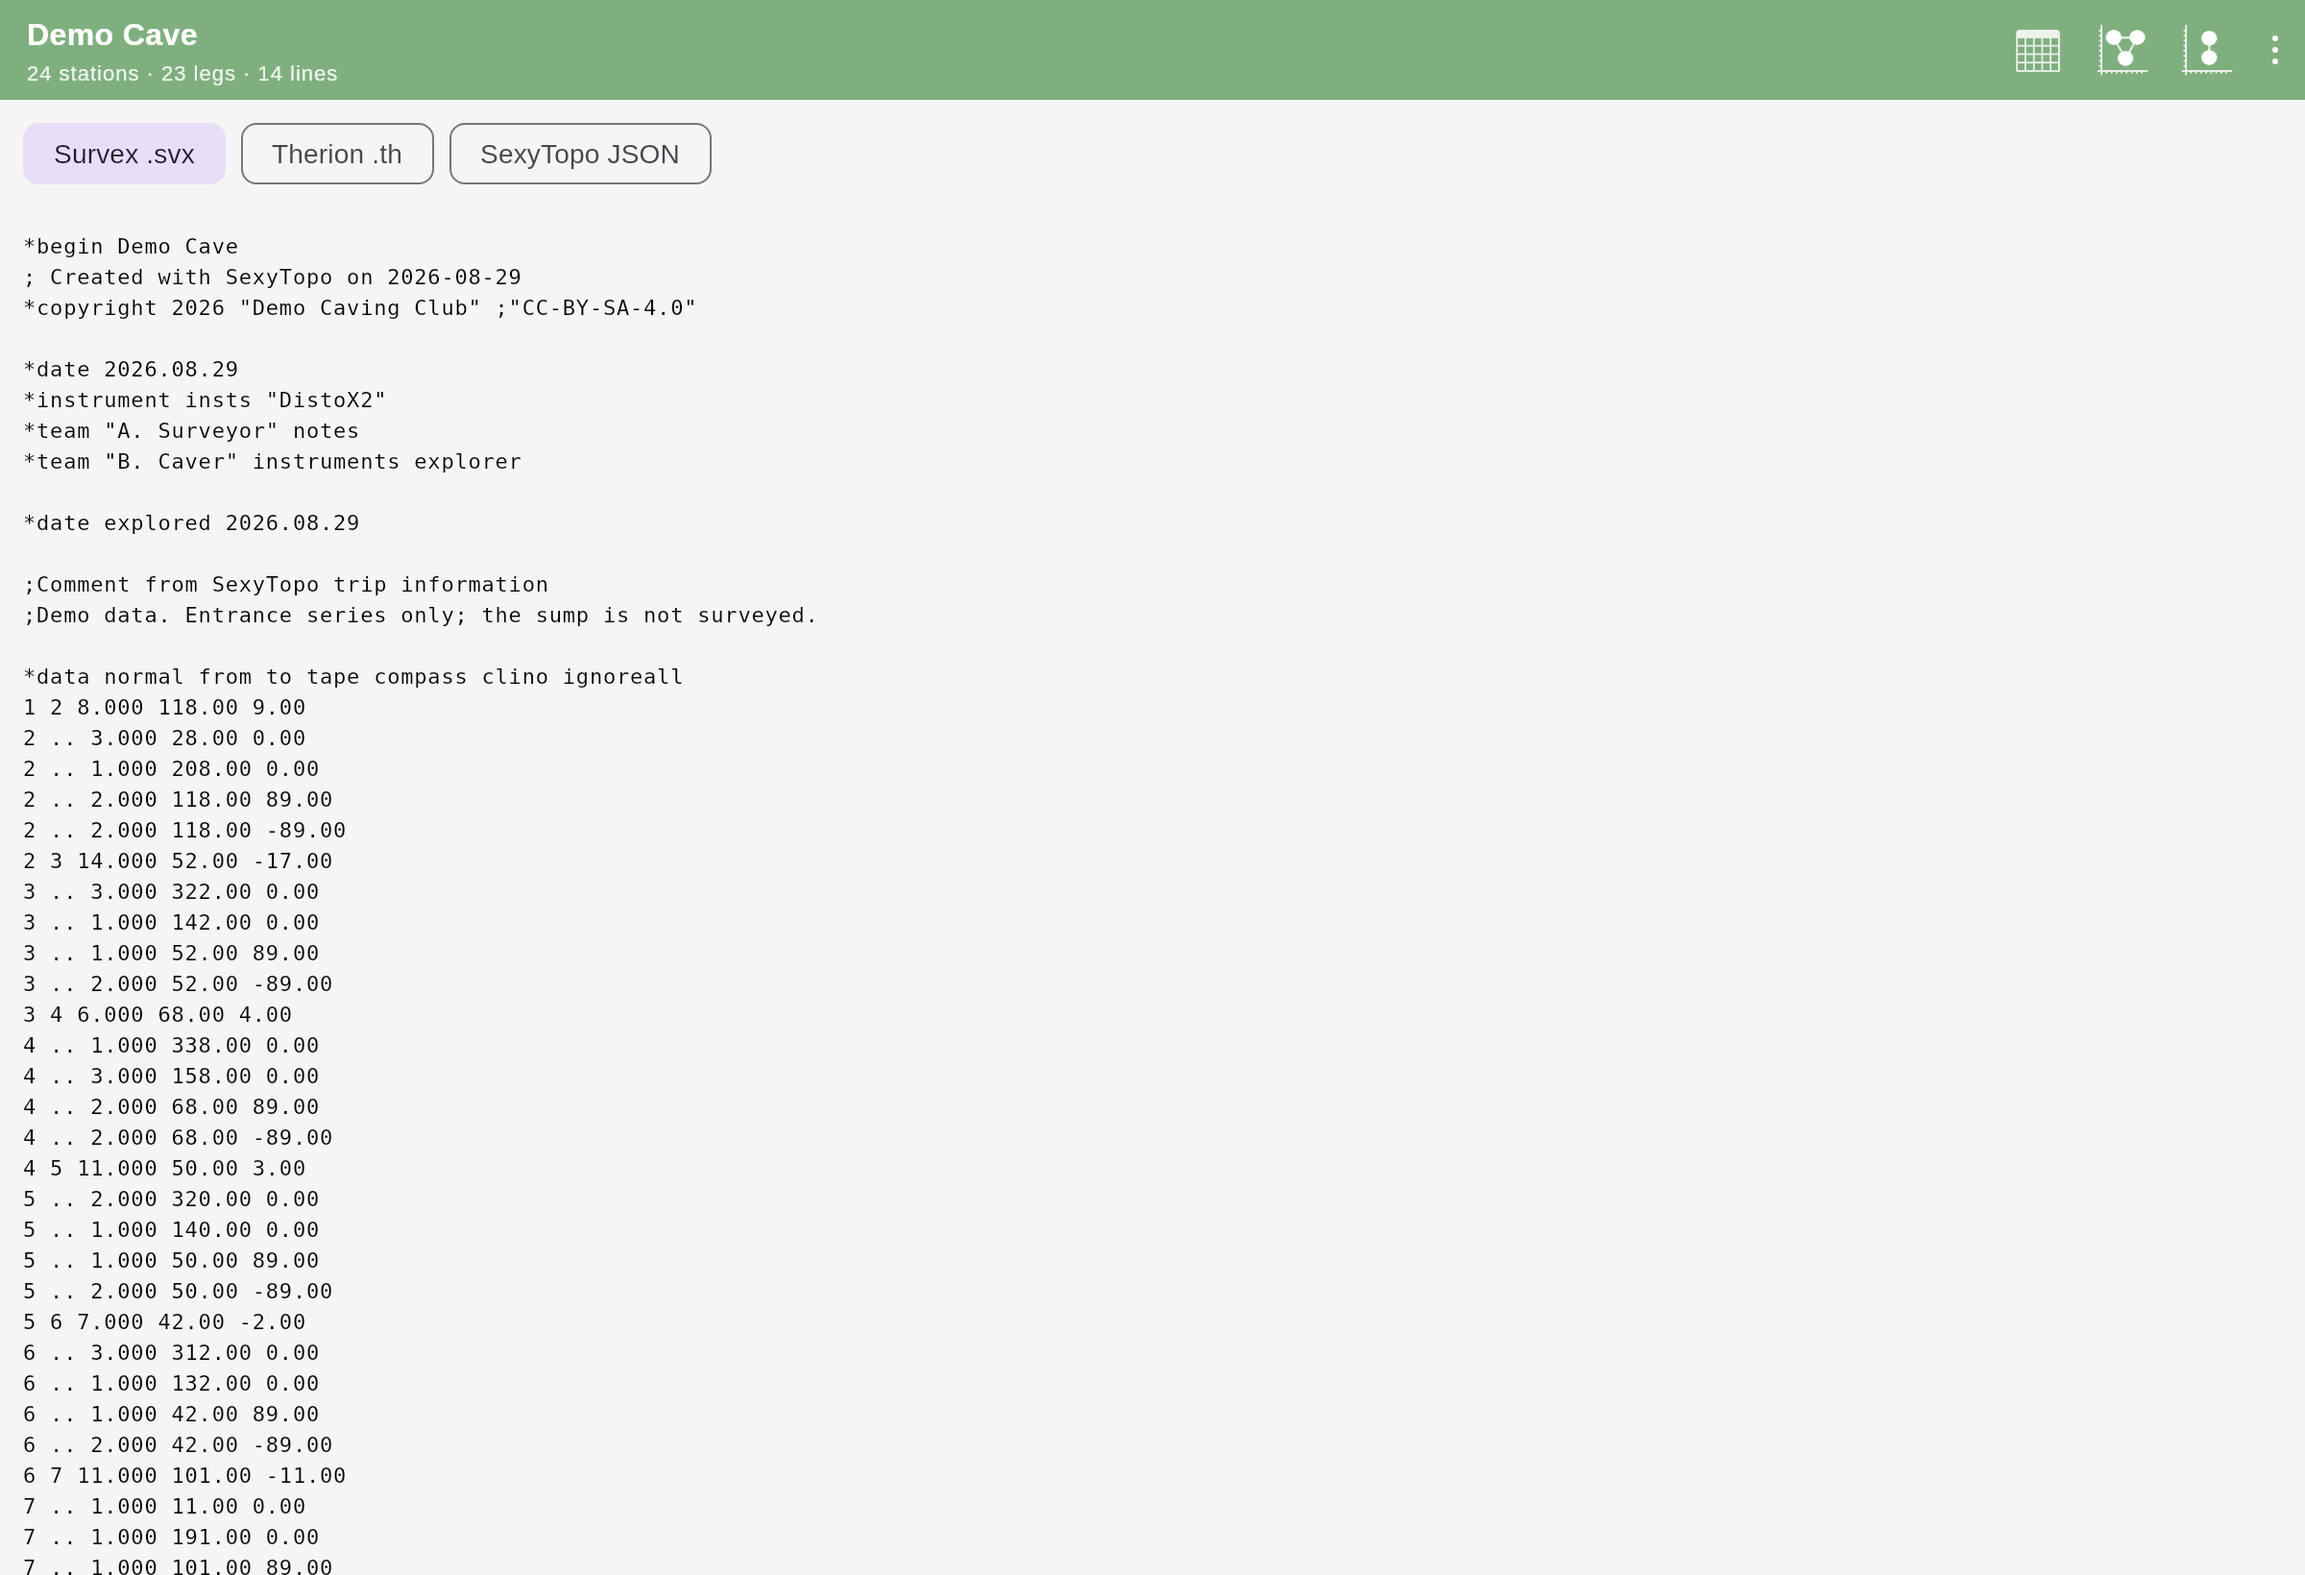
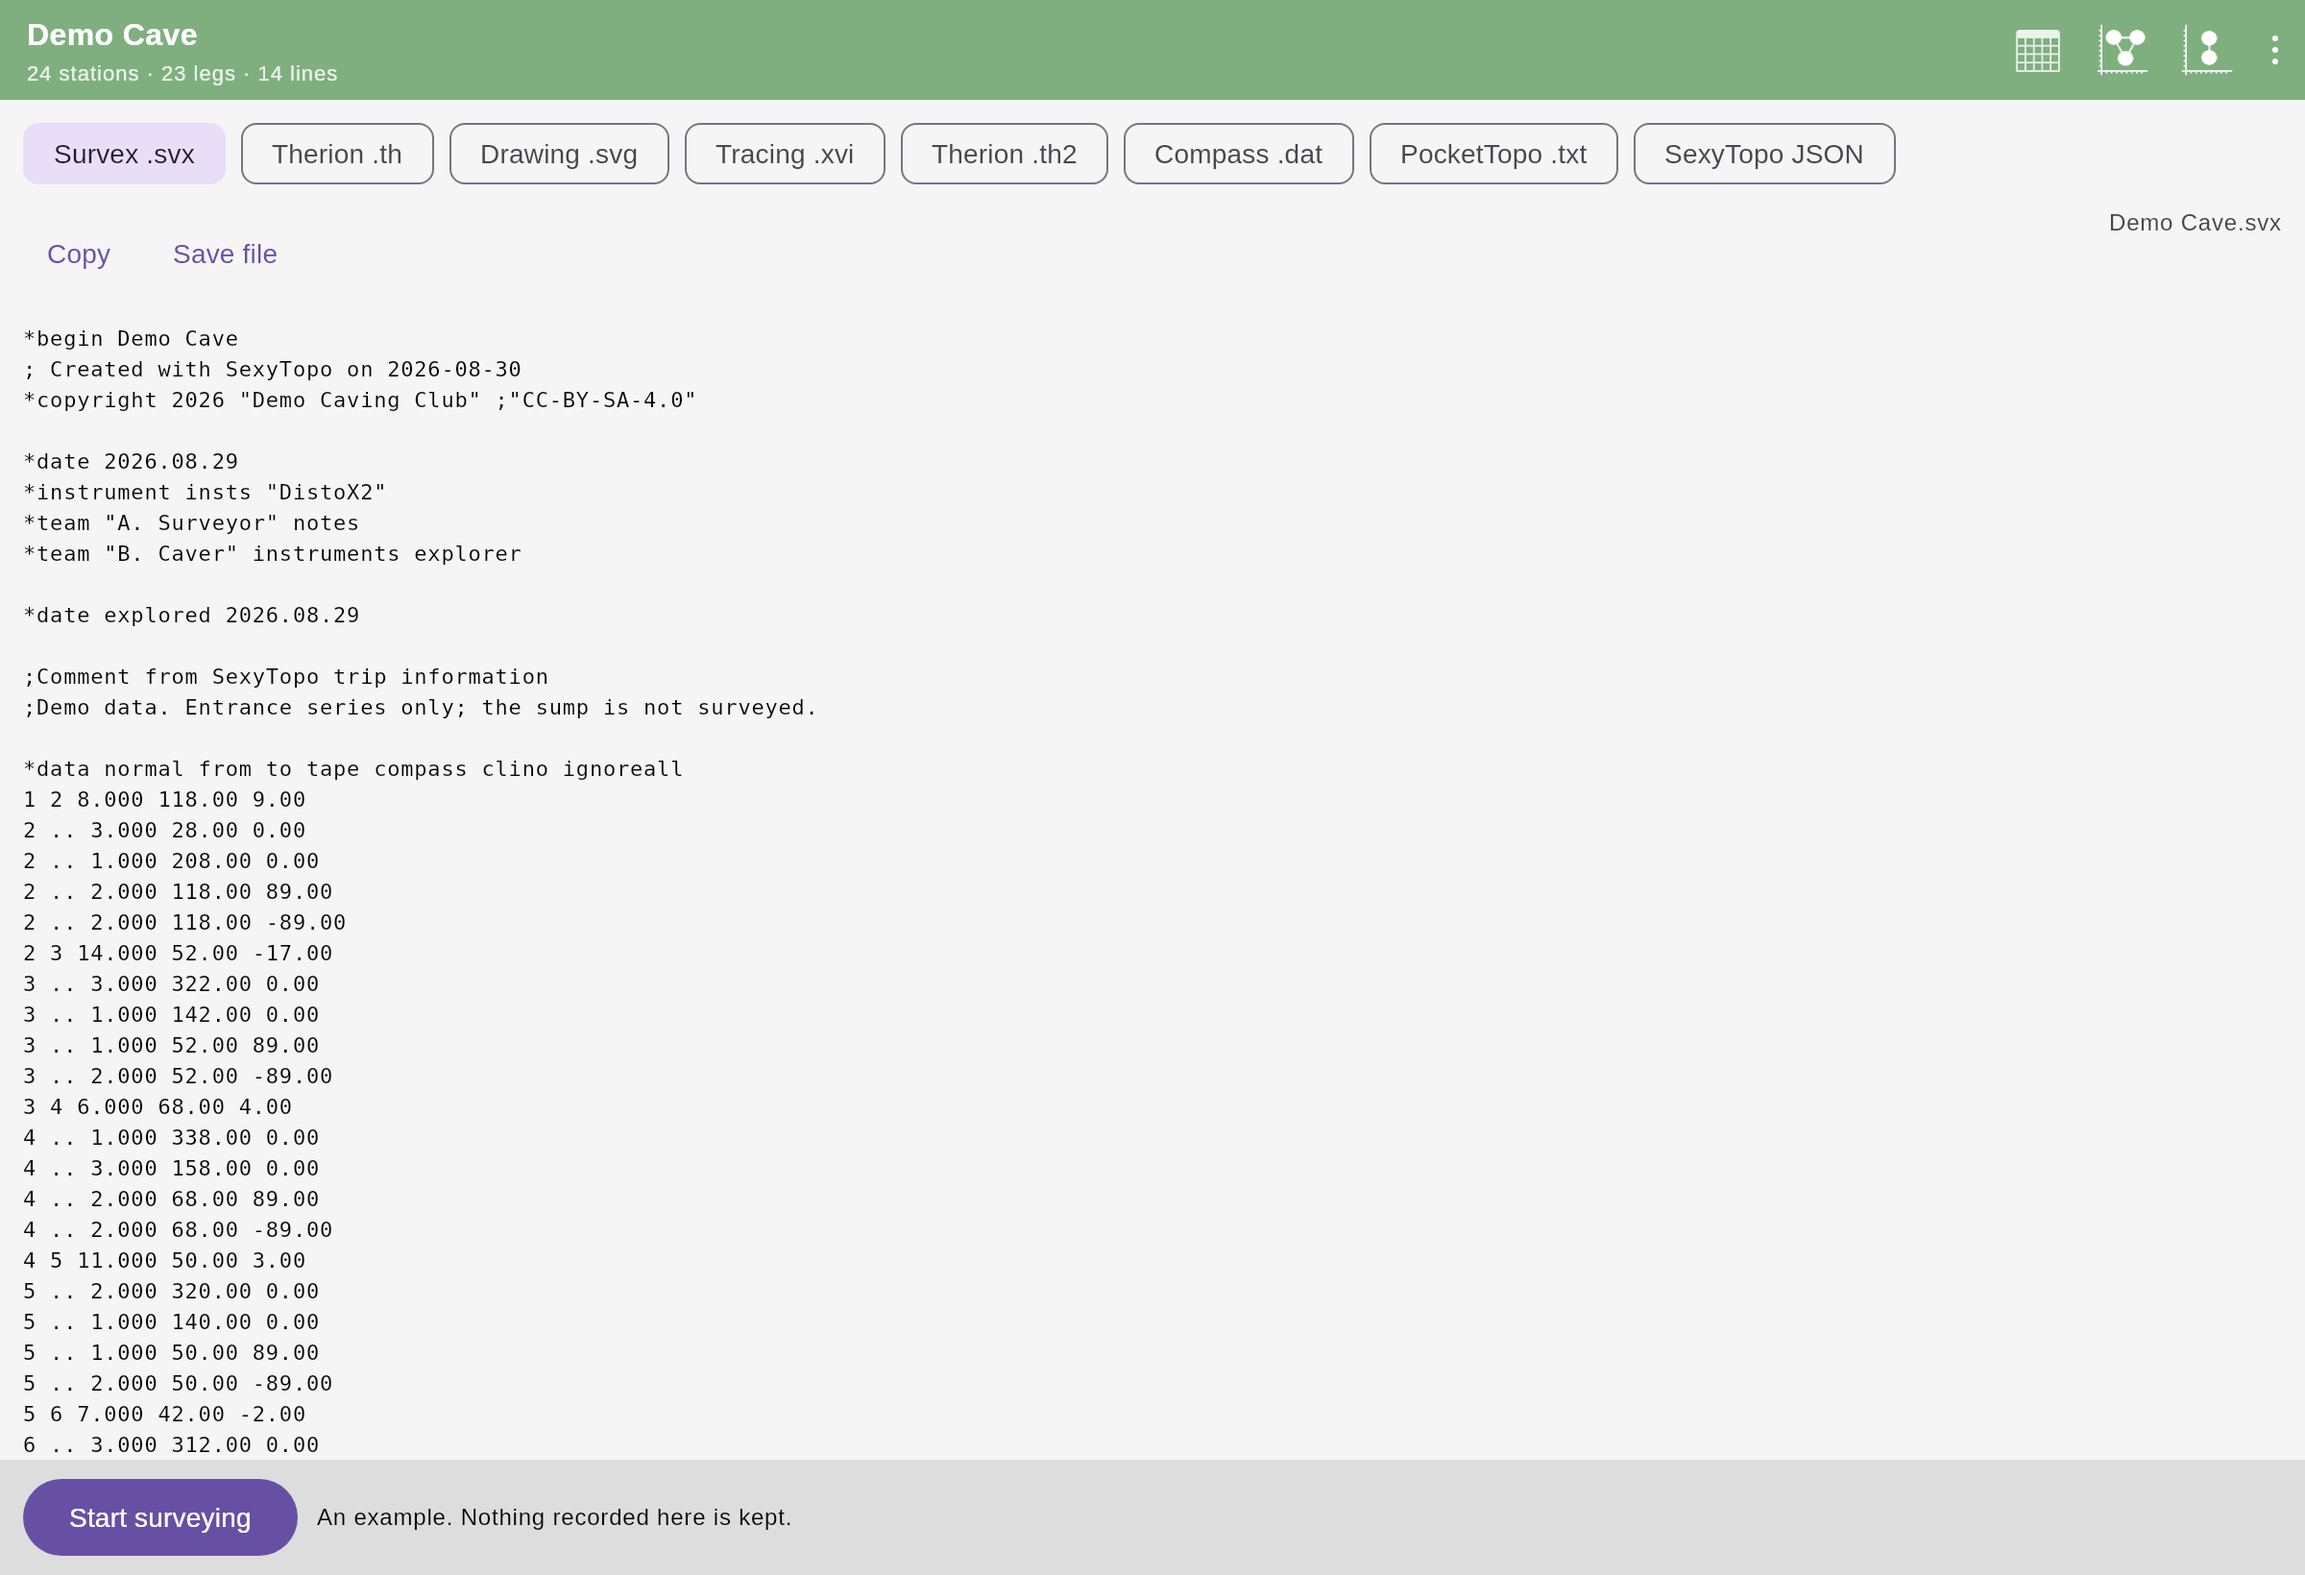
Make every export format reachable on a phone
Eight formats do not fit across a 420-pixel screen, and they sat in a row
that scrolled sideways. That row does not scroll. A drag beginning on a
chip is taken by the chip: it moves the row about thirty pixels and then
stops, however far the finger goes, while a drag beginning in the gap
between two chips scrolls it normally. A finger lands on a chip far more
often than in a gap, so in practice the last four formats — the .th2, the
Compass .dat, the PocketTopo .txt and this app's own JSON — could not be
reached at all.

Wrapping the chips fixes it and needs no gesture. Three rows of chips
cost some height on a screen whose main content scrolls anyway.

Found by trying to write a browser check for it, which is the useful part
of writing browser checks. There is now one: it picks the .th2 on a phone
screen, saves the file, and checks it has an encoding line, a named plan
scrap, and the ##XTHERION## block that points it at the .xvi — the format
with the most structure to get wrong, and until now the one furthest off
the edge of the screen.

Claude-Session: https://claude.ai/code/session_01EsWeeGYHa4RrEbZW2iXKma

diff --git a/kmp/demo/src/commonMain/kotlin/org/hwyl/sexytopo/demo/ExportView.kt b/kmp/demo/src/commonMain/kotlin/org/hwyl/sexytopo/demo/ExportView.kt
@@ -3,6 +3,8 @@ package org.hwyl.sexytopo.demo
 import androidx.compose.foundation.horizontalScroll
 import androidx.compose.foundation.layout.Arrangement
 import androidx.compose.foundation.layout.Column
+import androidx.compose.foundation.layout.ExperimentalLayoutApi
+import androidx.compose.foundation.layout.FlowRow
 import androidx.compose.foundation.layout.Row
 import androidx.compose.foundation.layout.Spacer
 import androidx.compose.foundation.layout.fillMaxSize
@@ -59,6 +61,7 @@ enum class ExportFormat(val label: String, val extension: String) {
  * emitter, whose golden tests assert it byte for byte against what the Android app writes, and the
  * JSON is the app's own native format — the same bytes the Android app would read back.
  */
+@OptIn(ExperimentalLayoutApi::class)
 @Composable
 fun ExportView(
     survey: Survey,
@@ -125,12 +128,17 @@ fun ExportView(
         }
 
     Column(modifier.fillMaxSize()) {
-        Row(
-            Modifier
-                .fillMaxWidth()
-                .horizontalScroll(rememberScrollState())
-                .padding(horizontal = 12.dp, vertical = 4.dp),
+        // Wrapped rather than scrolled sideways, which is what this was.
+        //
+        // Eight formats do not fit across a phone, and a row that scrolls hides four of them behind
+        // a gesture that does not work: a drag beginning on a chip is taken by the chip, moves the
+        // row about thirty pixels and stops. A finger lands on a chip far more often than in the
+        // gap between two, so half the export formats were, in practice, unreachable. Three rows of
+        // chips cost some height on a screen whose main content scrolls anyway.
+        FlowRow(
+            Modifier.fillMaxWidth().padding(horizontal = 12.dp, vertical = 4.dp),
             horizontalArrangement = Arrangement.spacedBy(8.dp),
+            verticalArrangement = Arrangement.spacedBy(2.dp),
         ) {
             for (f in ExportFormat.entries) {
                 FilterChip(format == f, { format = f }, { Text(f.label) })

diff --git a/kmp/README.md b/kmp/README.md
@@ -39,6 +39,7 @@ Being precise about this matters more than the demo looking good.
 | **PocketTopo's own binary `.top` imports** | **Verified** | the format's primitives against the Android app's own `PocketTopoFileTest`, the shot-ordering and repeat-averaging rules against its `PocketTopoImporterTest` fixtures byte for byte, and its real `CeiledUp.top` — 12 stations, 68 legs, 203 strokes — read identically on the JVM, Kotlin/Wasm and Kotlin/Native, and through the file chooser in a browser |
 | A PocketTopo text export imports, drawing included | **Verified** | the Android app's own `FAKE_TEXT` fixture and its three assertions, on three targets, plus the four files that crash the Java |
 | A Survex or Therion file from other software imports | **Verified** | round-trip tests through the ported exporters, plus a `.svx` written by hand — team, date, backsights, splays, station comments and leg comments — and `field.mjs` brings one into the browser build end to end |
+| The `.th2` and `.xvi` a Therion user actually needs come out of the app | **Verified** | golden tests on the scrap file and the tracing image, and `field.mjs` picks the `.th2` chip on a 420-pixel screen, saves the file and checks it has an encoding line, a named plan scrap and the `##XTHERION##` block that points it at the `.xvi` |
 | Compass `.dat` exports byte-identically | **Verified** | a golden captured by *running* the Android app's own exporter, not by reading it — which caught a transcription slip on the first attempt |
 | PocketTopo `.txt` exports the same survey data | **Verified** | its DATA section is golden against the Android app; its station sections deliberately diverge, because the Java's are not reproducible even against themselves |
 | A station being made can be felt rather than looked at | **Verified** | the callback fires once per station and not once per reading, the preference round-trips, and `field.mjs` turns it off through the settings screen and checks it stayed off |
@@ -632,7 +633,16 @@ These are the things that would actually shape a real port.
    file, auto-named, with the rest of the import hanging off it. Two importers in the same package,
    one of which documents the trap the other falls into.
 
-16. **The vibrate-on-new-station setting says on and behaves as off.** `preferences_general.xml`
+16. **A Compose chip eats the drag that would scroll the row it is in.** Not a finding about the
+   Android app — about this port, and about Compose. The export screen offers eight formats, which
+   do not fit across a phone, so they sat in a horizontally scrolling row. A drag that *begins on a
+   chip* moves that row about thirty pixels and then stops, however far the finger goes; a drag
+   that begins in the gap between two chips scrolls it normally. A finger lands on a chip far more
+   often than in a gap, so in practice half the export formats could not be reached at all. Wrapping
+   the chips fixes it and needs no gesture. Worth knowing before putting a scrolling row of
+   `FilterChip`s anywhere a finger has to drag it.
+
+17. **The vibrate-on-new-station setting says on and behaves as off.** `preferences_general.xml`
    declares `android:defaultValue="true"` for `pref_vibrate_on_new_station`, so the checkbox on the
    settings screen appears ticked on a fresh install. But nothing in the app calls
    `PreferenceManager.setDefaultValues`, and a `defaultValue` is not written to `SharedPreferences`
